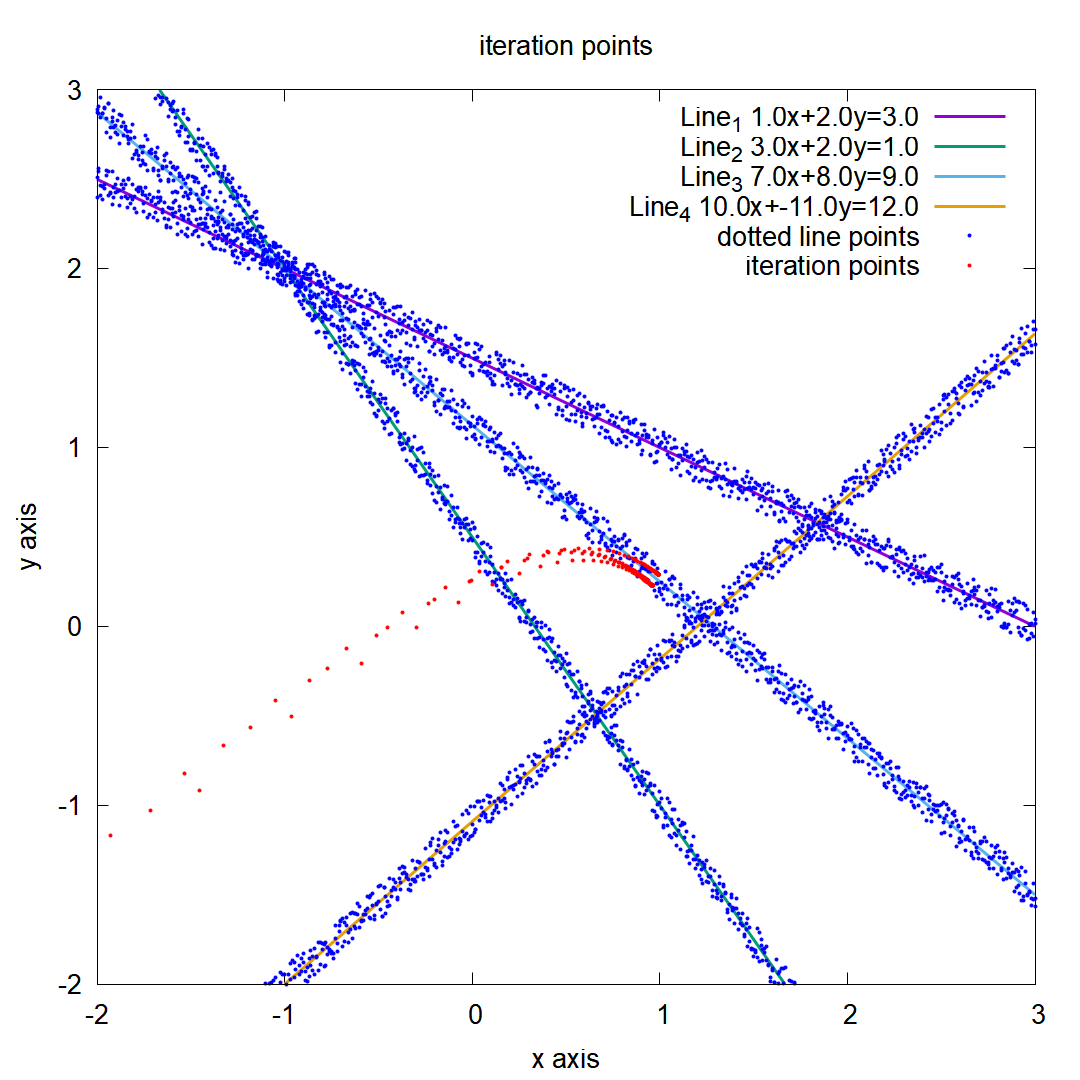
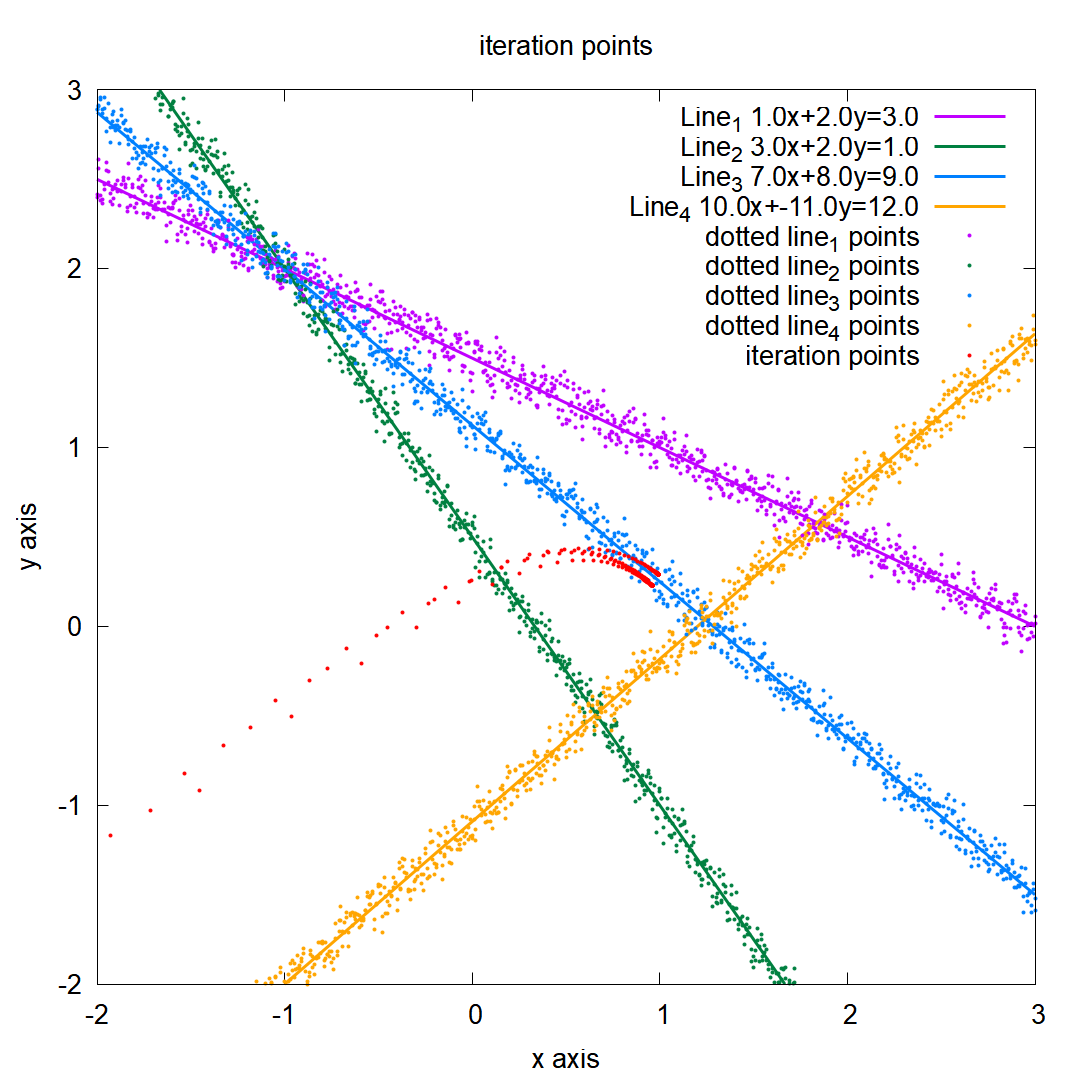
Can plot dots line by line separately

diff --git a/src/hw4/lib/plot_iter.c b/src/hw4/lib/plot_iter.c
@@ -6,13 +6,12 @@
 #include "../../libc/output_format.h"
 #include "../../libc/random.h"
 
-void dotted_line_cord_generate(config_t* config, config_line_t (*config_lines)[], dotted_line_cord_t* dotted_line_cord, FILE* iter_dt_tmp){
-    // Generate dotted line coordinates
+void dotted_line_cord_generate(config_t* config, config_line_t (*config_lines)[], FILE* iter_dt_tmps[]){
     printf("Generating dotted line coordinates...\n");
-    int total_cnt = ((config->plot_x_max - config->plot_x_min) / config->iter_dotted_line_step) * config->iter_dotted_line_num_per_x * config->line_cnt;
+    int total_cnt = ((config->plot_x_max - config->plot_x_min) / config->iter_dotted_line_step) * config->iter_dotted_line_num_per_x * config->line_cnt + MAX_LINE_CNT * config->iter_dotted_line_num_per_x;
     printf("Total dotted line cnt: %d\n", total_cnt);
-    dotted_line_cord->cnt = 0;
     double y;
+    int cnt = 0;
     if (config->debug_mode) {
         printf("plot_x_min: %lf\n", config->plot_x_min);
         printf("plot_x_max: %lf\n", config->plot_x_max);
@@ -25,53 +24,36 @@ void dotted_line_cord_generate(config_t* config, config_line_t (*config_lines)[]
             // y = (p3 - p1 * x) / p2
             y = ((*config_lines)[j].line_param3 - (*config_lines)[j].line_param1 * i) / (*config_lines)[j].line_param2;
             for (int k = 0; k < config->iter_dotted_line_num_per_x; k++) {
-                dotted_line_cord->x[dotted_line_cord->cnt] = i;
-                dotted_line_cord->y[dotted_line_cord->cnt] = y + random_double(-config->iter_dotted_line_range, config->iter_dotted_line_range);
-                dotted_line_cord->cnt++;
+                // Generate dotted line coordinates
+                y += random_double(-config->iter_dotted_line_range, config->iter_dotted_line_range);
+                // Write to temporary file
+                fprintf(iter_dt_tmps[j], "%lf %lf\n", i, y);
+                // Print debug info
                 if (config->debug_mode) {
-                    printf("Generated %d/%d %.2lf%% x: %.2lf y: %.2lf i: %.2lf j: %d k: %d\n", dotted_line_cord->cnt, total_cnt, (double)dotted_line_cord->cnt / total_cnt * 100, i, y, i, j, k);
+                    printf("Generated %d/%d %.2lf%% x: %.2lf y: %.2lf i: %.2lf j: %d k: %d\n", cnt, total_cnt, cnt / total_cnt * 100, i, y, i, j, k);
                 } else {
-                    printf("Generated %d/%d %.2lf%% x: %.2lf y: %.2lf i: %.2lf j: %d k: %d\r", dotted_line_cord->cnt, total_cnt, (double)dotted_line_cord->cnt / total_cnt * 100, i, y, i, j, k);
+                    printf("Generated %d/%d %.2lf%% x: %.2lf y: %.2lf i: %.2lf j: %d k: %d\r", cnt, total_cnt, cnt / total_cnt * 100, i, y, i, j, k);
                 }
-                if (dotted_line_cord->cnt > total_cnt + MAX_LINE_CNT * config->iter_dotted_line_num_per_x) {
+                if (cnt > total_cnt) {
                     printf("\ndotted line cnt exceeds total cnt\n");
                     exit(1);
                 }
+                cnt++;
             }
-        }
-    }
-    // Write to file
-    printf("\nWriting to file...\n");
-    if (config->debug_mode) printf("dotted line cnt: %d\n", dotted_line_cord->cnt);
-    for (int i = 0; i < dotted_line_cord->cnt; i++) {
-        fprintf(iter_dt_tmp, "%lf %lf\n", dotted_line_cord->x[i], dotted_line_cord->y[i]);
-        if (config->debug_mode) {
-            printf("Writing to file: %d/%d %.2lf%% x: %lf y: %lf\n", i+1, dotted_line_cord->cnt, (double)(i+1) / dotted_line_cord->cnt * 100, dotted_line_cord->x[i], dotted_line_cord->y[i]);
-        } else {
-            printf("Writing to file: %d/%d %.2lf%% x: %lf y: %lf\r", i+1, dotted_line_cord->cnt, (double)(i+1) / dotted_line_cord->cnt * 100, dotted_line_cord->x[i], dotted_line_cord->y[i]);
         }
     }
     return;
 }
 
-FILE* iter_file_open(config_t* config, int file_num){
+FILE* iter_file_open(config_t* config, char* filename){
     output_format format;
     get_format(&format);
-    char* filepath;
-    if (file_num == 1) {
-        filepath = config->iter_point_tmp;
-    } else if (file_num == 2) {
-        filepath = config->iter_dt_tmp;
-    } else {
-        printf("%sInvalid file number: %d\n", format.status.error, file_num);
-        exit(1);
-    }
-    FILE* iter_tmp = fopen(filepath, "w");
+    FILE* iter_tmp = fopen(filename, "w");
     if (iter_tmp == NULL) {
-        printf("%sCannot open file: %s\n", format.status.error, filepath);
+        printf("%sCannot open file: %s\n", format.status.error, filename);
         exit(1);
     } else {
-        printf("%sFile opened: %s\n", format.status.success, filepath);
+        printf("%sFile opened: %s\n", format.status.success, filename);
     }
     return iter_tmp;
 }
@@ -110,22 +92,26 @@ void add_line(FILE* gnuplot, config_t* config, config_line_t (*config_lines)[]){
     return;
 }
 
-void iter_plot_update(FILE* gnuplot, config_t* config, config_line_t (*config_lines)[], iter_history_t* iter_history, FILE* iter_point_tmp, FILE* iter_dt_tmp){
+void iter_plot_update(FILE* gnuplot, config_t* config, config_line_t (*config_lines)[], iter_history_t* iter_history, FILE* iter_point_tmp, FILE* iter_dt_tmps[]){
     // Add temporary files to gnuplot
     fflush(iter_point_tmp);
-    fflush(iter_dt_tmp);
+    for (int i = 0; i < config->line_cnt; i++) {
+        fflush(iter_dt_tmps[i]);
+    }
     // Add lines and points to gnuplot
     fprintf(gnuplot, "plot ");
     if (config->plot_iter_with_line) {
         for (int i = 0; i < config->line_cnt; i++) {
-            fprintf(gnuplot, "%s(x) title \"%s %.1lfx+%.1lfy=%.1lf\" with lines lw 3", &(*config_lines)[i].line_symbol, &(*config_lines)[i].line_title, (*config_lines)[i].line_param1, (*config_lines)[i].line_param2, (*config_lines)[i].line_param3);
+            fprintf(gnuplot, "%s(x) title \"%s %.1lfx+%.1lfy=%.1lf\" with lines lw 3 lc rgb \"%s\"", &(*config_lines)[i].line_symbol, &(*config_lines)[i].line_title, (*config_lines)[i].line_param1, (*config_lines)[i].line_param2, (*config_lines)[i].line_param3, &(*config_lines)[i].line_color);
             if (i != config->line_cnt - 1) fprintf(gnuplot, ", ");
         }
         fprintf(gnuplot, ", ");
     }
     if (config->plot_iter_with_dotted_line) {
-        fprintf(gnuplot, "\"%s\" with points pt 7 ps 0.5 lc rgb \"blue\" title \"dotted line points\"", config->iter_dt_tmp);
-        fprintf(gnuplot, ", ");
+        for (int i = 0; i < config->line_cnt; i++) {
+            fprintf(gnuplot, "\"%s_%d.dat\" with points pt 7 ps 0.5 lc rgb \"%s\" title \"dotted line_%d points\"", config->iter_dt_tmp, i+1, &(*config_lines)[i].line_color, i+1);
+            fprintf(gnuplot, ", ");
+        }
     }
     fprintf(gnuplot, "\"%s\" with points pt 7 ps 0.5 lc rgb \"red\" title \"iteration points\"", config->iter_point_tmp);
     fprintf(gnuplot, "\n");

diff --git a/src/hw4/main.c b/src/hw4/main.c
@@ -13,7 +13,7 @@
 config_t config;
 config_line_t config_lines[MAX_LINE_CNT];
 iter_history_t iter_history;
-dotted_line_cord_t dotted_line_cord;
+FILE* iter_dt_files[MAX_LINE_CNT];
 
 /**
  * @brief main function
@@ -28,15 +28,19 @@ int main (int argc, char *argv[]) {
     config_read(&config, &config_lines, argv[1]);
     config_all_print(&config, &config_lines);
     FILE* iter_gnuplot = iter_plot_open(&config);
-    FILE* iter_point_file = iter_file_open(&config, 1);
-    FILE* iter_dt_file = iter_file_open(&config, 2);
+    FILE* iter_point_file = iter_file_open(&config, config.iter_point_tmp);
+    for (int i = 0; i < config.line_cnt; i++) {
+        char temp_str[100];
+        sprintf(temp_str, "%s_%d.dat", config.iter_dt_tmp, i+1);
+        iter_dt_files[i] = iter_file_open(&config, temp_str);
+    }
     FILE* cost_gnuplot = cost_plot_open(&config);
     FILE* cost_file = cost_file_open(&config);
     if (config.plot_iter_with_line) {
         add_line(iter_gnuplot, &config, &config_lines);
     }
     if (config.plot_iter_with_dotted_line) {
-        dotted_line_cord_generate(&config, &config_lines, &dotted_line_cord, iter_dt_file);
+        dotted_line_cord_generate(&config, &config_lines, &iter_dt_files);
     }
     iter_history_init(&iter_history, &config, &config_lines);
 
@@ -53,7 +57,7 @@ int main (int argc, char *argv[]) {
             cost_file_flush(cost_file, &iter_history, &config);
         }
         if (config.show_progress) {
-            iter_plot_update(iter_gnuplot, &config, &config_lines, &iter_history, iter_point_file, iter_dt_file);
+            iter_plot_update(iter_gnuplot, &config, &config_lines, &iter_history, iter_point_file, &iter_dt_files);
             cost_plot_update(cost_gnuplot, &config, &iter_history, cost_file);
         }
     }
@@ -66,7 +70,7 @@ int main (int argc, char *argv[]) {
 
     if (config.plot_iter) {
         iter_plot_reset(iter_gnuplot, &config);
-        iter_plot_update(iter_gnuplot, &config, &config_lines, &iter_history, iter_point_file, iter_dt_file);
+        iter_plot_update(iter_gnuplot, &config, &config_lines, &iter_history, iter_point_file, &iter_dt_files);
     }
     if (config.plot_cost) {
         cost_plot_reset(cost_gnuplot, &config, &iter_history);
@@ -74,7 +78,9 @@ int main (int argc, char *argv[]) {
     }
 
     fclose(iter_point_file);
-    fclose(iter_dt_file);
+    for (int i = 0; i < config.line_cnt; i++) {
+        fclose(iter_dt_files[i]);
+    }
     iter_plot_close(iter_gnuplot);
     fclose(cost_file);
     cost_plot_close(cost_gnuplot);

diff --git a/src/hw4/lib/plot_iter.h b/src/hw4/lib/plot_iter.h
@@ -11,37 +11,22 @@
 #include "config_read.h"
 #include "iter.h"
 
-#define MAX_DOTTED_LINE_CORD_CNT (1000000)   ///< Maximum number of dotted lines
-
-/**
- * @brief Structure for dotted line coorindates
- * @param x X coordinate list
- * @param y Y coordinate list
- * @param cnt Number of coordinates
-*/
-typedef struct {
-    double x[MAX_DOTTED_LINE_CORD_CNT];
-    double y[MAX_DOTTED_LINE_CORD_CNT];
-    int cnt;
-} dotted_line_cord_t;
-
 /**
  * @brief Generate dotted line coordinates
  * @param config Pointer to config_t struct
  * @param config_lines Pointer to config_line_t struct list
- * @param dotted_line_cord Pointer to dotted_line_cord_t struct
- * @param iter_dt_tmp The file pointer to the iteration dotted line temporary file
+ * @param iter_dt_tmps The file pointer list to the iteration dotted line temporary file
  * @retval void
 */
-void dotted_line_cord_generate(config_t* config, config_line_t (*config_lines)[], dotted_line_cord_t* dotted_line_cord, FILE* iter_dt_tmp);
+void dotted_line_cord_generate(config_t* config, config_line_t (*config_lines)[], FILE* iter_dt_tmps[]);
 
 /**
  * @brief Open a temporary file to store iteration history
  * @param config Pointer to config_t struct
- * @param file_num The number of the file to open
+ * @param filename The file name of the temporary file
  * @retval FILE* The file pointer to the opened file
 */
-FILE* iter_file_open(config_t* config, int file_num);
+FILE* iter_file_open(config_t* config, char* filename);
 
 /**
  * @brief Flush the iteration history to file
@@ -75,10 +60,10 @@ void add_line(FILE* gnuplot, config_t* config, config_line_t (*config_lines)[]);
  * @param config_lines Pointer to config_line_t struct
  * @param iter_history Pointer to iter_history_t struct
  * @param iter_point_tmp The file pointer to the iteration history file
- * @param iter_dt_tmp The file pointer to the iteration dotted line temporary file
+ * @param iter_dt_tmps The file pointer to the iteration dotted line temporary file
  * @retval void
 */
-void iter_plot_update(FILE* gnuplot, config_t* config, config_line_t (*config_lines)[], iter_history_t* iter_history, FILE* iter_point_tmp, FILE* iter_dt_tmp);
+void iter_plot_update(FILE* gnuplot, config_t* config, config_line_t (*config_lines)[], iter_history_t* iter_history, FILE* iter_point_tmp, FILE* iter_dt_tmps[]);
 
 /**
  * @brief Reset the plot to export to file

diff --git a/src/hw4/lib/config_read.c b/src/hw4/lib/config_read.c
@@ -59,6 +59,7 @@ void config_init(config_t *config){
 void config_line_init(config_line_t *config_line){
     memset(config_line->line_title, 0, sizeof(config_line->line_title)); // Clear buffer
     memset(config_line->line_symbol, 0, sizeof(config_line->line_symbol)); // Clear buffer
+    memset(config_line->line_color, 0, sizeof(config_line->line_color)); // Clear buffer
     config_line->line_param1 = 0.0;
     config_line->line_param2 = 0.0;
     config_line->line_param3 = 0.0;
@@ -102,6 +103,7 @@ void config_print(config_t *config){
 void config_line_print(config_line_t *config_line){
     printf("line_title: %s\n", config_line->line_title);
     printf("line_symbol: %s\n", config_line->line_symbol);
+    printf("line_color: %s\n", config_line->line_color);
     printf("line_param1: %lf\n", config_line->line_param1);
     printf("line_param2: %lf\n", config_line->line_param2);
     printf("line_param3: %lf\n", config_line->line_param3);
@@ -312,6 +314,10 @@ int config_line_parse(char *buf, config_line_t *config_line, int *line_cnt, conf
         return CONFIG_READ_STATUS_SUCCESS;
     }
     if (sscanf(buf, " line_symbol = %s", config_line->line_symbol) == 1){
+        *line_cnt += 1;
+        return CONFIG_READ_STATUS_SUCCESS;
+    }
+    if (sscanf(buf, " line_color = %s", config_line->line_color) == 1){
         *line_cnt += 1;
         return CONFIG_READ_STATUS_SUCCESS;
     }

diff --git a/src/hw4/lib/config_read.h b/src/hw4/lib/config_read.h
@@ -21,7 +21,7 @@
 #define CONFIG_SET_MAX_SIZE     (128)   ///< Maximum size of config file settting in memory
 #define MAX_LINE_CNT            (4)     ///< Maximum number of specified lines in config file
 #define CONFIG_GLOBAL_SET_NUM   (29)    ///< Number of global settings in config file
-#define CONFIG_LINE_SET_NUM     (5)     ///< Number of each line settings in config file
+#define CONFIG_LINE_SET_NUM     (6)     ///< Number of each line settings in config file
 
 #define CONFIG_READ_STATUS_SUCCESS (0)           ///< Success
 #define CONFIG_READ_STATUS_FAILURE (-1)          ///< Can't open file
@@ -69,9 +69,10 @@ typedef struct {
 typedef struct {
     char*  line_title[CONFIG_SET_MAX_SIZE];  ///< line title (ex: Line 1)
     char*  line_symbol[CONFIG_SET_MAX_SIZE]; ///< line symbol (ex: f(x))
-    double line_param1;                       ///< a_x1
-    double line_param2;                       ///< b_y1
-    double line_param3;                       ///< c_1
+    char*  line_color[CONFIG_SET_MAX_SIZE];  ///< line color (ex: red)
+    double line_param1;                      ///< a_x1
+    double line_param2;                      ///< b_y1
+    double line_param3;                      ///< c_1
 } config_line_t;
 
 /**

diff --git a/src/libc/signal_handler.c b/src/libc/signal_handler.c
@@ -1,4 +1,5 @@
 #include <stdio.h>
+#include <stdlib.h>
 #include <signal.h>
 #include "signal_handler.h"
 #include "output_format.h"
